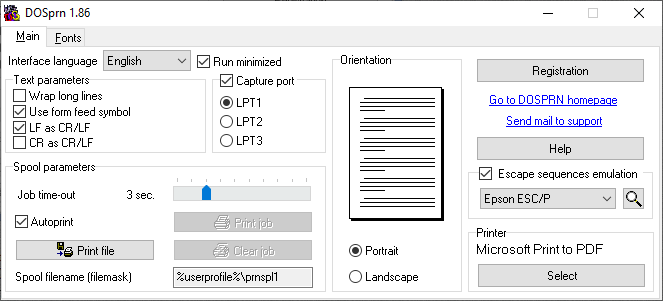
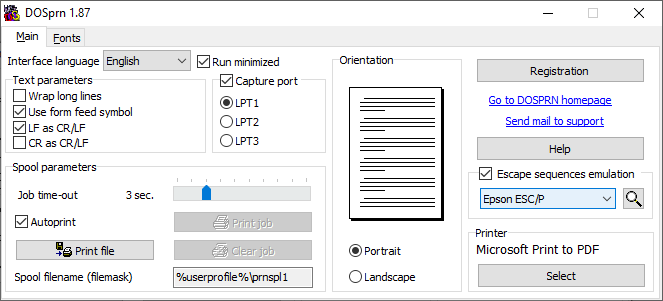
1.87

diff --git a/readme.htm b/readme.htm
@@ -1,5 +1,5 @@
 <!DOCTYPE HTML PUBLIC "-//W3C//DTD HTML 4.0 Transitional//EN">
-<HTML><HEAD><TITLE>DOSPRN 1.86 документація</TITLE>
+<HTML><HEAD><TITLE>DOSPRN 1.87 документація</TITLE>
 <META http-equiv=Content-Type content="text/html; charset=utf-8">
 <META http-equiv=Content-Language content=en-us>
 <META name=Keywords  content="DOS, printers, program, print, printer, USB, programs, LPT, DOS program, software, national, language, internanional" >
@@ -15,7 +15,7 @@
     <TD width="100%">      <table border="0" cellspacing="0" cellpadding="0">
         <tr>
           <td width="50"><IMG src="images/logo.gif" ALT="Print from DOS on printers under Windows98, WinXP, Windows2000" width="42" height="39"></td>
-          <td width="281"><font size="5"><b>DOSPRN 1.86</b></font></td>
+          <td width="281"><font size="5"><b>DOSPRN 1.87</b></font></td>
           <td width="194">      
       <table border="2" bgcolor="#C0C0C0" cellpadding="4" cellspacing="4">
         <tr>
@@ -55,7 +55,7 @@
       ознайомитися з роботою DOSPRN та спробувати її в роботі з вашими програмами для DOS на протязі випробувального періоду. По закінченні цьогу періоду
       ви маєте або зареєструвати вашу копію або видалити її з вашого комп'ютера за допомогою утиліти деінсталяції яка розміщена у головному меню Робочого столу у групі DOSPRN.</P>
       <H3 align=justify>Інсталяція</H3>
-      <P align=justify>Загрузіть та запустіть на виконання само-розпаковуючийся файл <I><a href="https://dosprn.com/DOSprn186.exe">DOSprn186.exe</a></I>. 
+      <P align=justify>Загрузіть та запустіть на виконання само-розпаковуючийся файл <I><a href="https://dosprn.com/DOSprn187.exe">DOSprn187.exe</a></I>. 
       Вам треба буде відповісти на кілька простих питань. Під час інсталяції DOSPRN копіює усі необхідні файли та створює ярлики на вашому комп'ютері.</P>
       <H3 align=justify>Запуск програми</H3>Ви можете стартувати DOSPRN за допомогою ярлика на Робочому Столі або з папки "DOSPRN" 
       у головному меню Windows. Також DOSPRN може стартувати автоматично разом в операційною системою з папки "Автозагрузка" (якщо ви обрали таку можливість під час інсталяції). 
@@ -311,4 +311,5 @@ return "id="+id+"&pc="+pc+"&p="+PAGENAME+"&gr="+CONTENTGROUP+"&tr="+TRANSACTION+
   gtag('config', 'UA-39647417-1');
   gtag('config', 'AW-998639417');
 </script>
-</body></HTML>
+<script>(function(w,d,t,r,u){var f,n,i;w[u]=w[u]||[],f=function(){var o={ti:"137005363"};o.q=w[u],w[u]=new UET(o),w[u].push("pageLoad")},n=d.createElement(t),n.src=r,n.async=1,n.onload=n.onreadystatechange=function(){var s=this.readyState;s&&s!=="loaded"&&s!=="complete"||(f(),n.onload=n.onreadystatechange=null)},i=d.getElementsByTagName(t)[0],i.parentNode.insertBefore(n,i)})(window,document,"script","//bat.bing.com/bat.js","uetq");</script>
+</body></html>

diff --git a/index.htm b/index.htm
@@ -1,5 +1,5 @@
 <!DOCTYPE HTML PUBLIC "-//W3C//DTD HTML 4.0 Transitional//EN">
-<HTML><HEAD><TITLE>DOSPRN 1.86. Друкуємо з DOS програм на принтери зумісні з Windows</TITLE>
+<HTML><HEAD><TITLE>DOSPRN 1.87. Друкуємо з DOS програм на принтери зумісні з Windows</TITLE>
 <META http-equiv=Content-Type content="text/html; charset=utf-8">
 <META http-equiv=Content-Language content=en-us>
 <META name=Keywords  content="dos print, printer, printers, DOS, win, windows, win2k, windows2000, program, USB, programs, LPT, DOS program, software, national, language, internanional" >
@@ -14,7 +14,7 @@
       <table border="0" cellspacing="0" cellpadding="0">
         <tr>
           <td width="50"><IMG src="images/logo.gif" ALT="Print from DOS on printers under Windows98, WinXP, Windows2000" width="42" height="39"></td>
-          <td width="281"><font size="5"><b>DOSPRN 1.86</b></font></td>
+          <td width="281"><font size="5"><b>DOSPRN 1.87</b></font></td>
           <td width="194">      
       <table border="2" bgcolor="#C0C0C0" cellpadding="4" cellspacing="4">
         <tr>
@@ -51,7 +51,7 @@
       <P>DOSPRN також може бути корисний якщо DOS програма прациює на вашій <b>рідній мові</b> але ваш принтер 
       не підтримує друк на вашій мові у текстовому режимі.</P>
       <P>DOSPRN розповсюджується як shareware. Загрузіть його звідси та <I><B><A 
-      href="https://dosprn.com/DOSprn186.exe">Спробуйте ЗАРАЗ</A></B></I> 
+      href="https://dosprn.com/DOSprn187.exe">Спробуйте ЗАРАЗ</A></B></I> 
       </P></TD></TR>
   <TR>
     <TD align=middle width=550 height=26>
@@ -97,4 +97,5 @@ return "id="+id+"&pc="+pc+"&p="+PAGENAME+"&gr="+CONTENTGROUP+"&tr="+TRANSACTION+
   gtag('config', 'UA-39647417-1');
   gtag('config', 'AW-998639417');
 </script>
-</body></HTML>
+<script>(function(w,d,t,r,u){var f,n,i;w[u]=w[u]||[],f=function(){var o={ti:"137005363"};o.q=w[u],w[u]=new UET(o),w[u].push("pageLoad")},n=d.createElement(t),n.src=r,n.async=1,n.onload=n.onreadystatechange=function(){var s=this.readyState;s&&s!=="loaded"&&s!=="complete"||(f(),n.onload=n.onreadystatechange=null)},i=d.getElementsByTagName(t)[0],i.parentNode.insertBefore(n,i)})(window,document,"script","//bat.bing.com/bat.js","uetq");</script>
+</body></html>

diff --git a/download.htm b/download.htm
@@ -1,5 +1,5 @@
 <!DOCTYPE HTML PUBLIC "-//W3C//DTD HTML 4.0 Transitional//EN">
-<HTML><HEAD><TITLE>DOSPRN 1.86 dowload now</TITLE>
+<HTML><HEAD><TITLE>DOSPRN 1.87 dowload now</TITLE>
 <META http-equiv=Content-Language content=en-us>
 <META http-equiv=Content-Type content="text/html; charset=windows-1252">
 <META name=Keywords  content="dos printer driver, dos print download, dos printer, dos usb driver, dos print command, DOS, printers, program, print, printer, USB, programs, LPT, DOS program, software, national, language, internanional" >
@@ -14,7 +14,7 @@
     <TD width="100%">      <table border="0" cellspacing="0" cellpadding="0">
         <tr>
           <td width="50"><IMG src="images/logo.gif" ALT="Print from DOS on printers under Windows98, WinXP, Windows2000" width="42" height="39"></td>
-          <td width="281"><font size="5"><b>DOSPRN 1.86</b></font></td>
+          <td width="281"><font size="5"><b>DOSPRN 1.87</b></font></td>
           <td width="194">      
       <table border="2" bgcolor="#C0C0C0" cellpadding="4" cellspacing="4">
         <tr>
@@ -53,8 +53,8 @@
       <p>We strongly recommend that you thoroughly review the <a href="readme.htm">DOSPRN manual</a>
       and <a href="faq.htm">our FAQ</a>.<br>
       <br>
-      <a href="https://dosprn.com/DOSprn186.exe">Click here for download the
-      self-extracting file <i>DOSprn186.exe (1.6 Mb)</i></a><br>
+      <a href="https://dosprn.com/DOSprn187.exe">Click here for download the
+      self-extracting file <i>DOSprn187.exe (1.6 Mb)</i></a><br>
       <br>
       DOSPRN will remind you about registration each time you print report from your DOS application. If you have
       any questions about
@@ -106,4 +106,5 @@ return "id="+id+"&pc="+pc+"&p="+PAGENAME+"&gr="+CONTENTGROUP+"&tr="+TRANSACTION+
   gtag('config', 'UA-39647417-1');
   gtag('config', 'AW-998639417');
 </script>
-</body></HTML>
+<script>(function(w,d,t,r,u){var f,n,i;w[u]=w[u]||[],f=function(){var o={ti:"137005363"};o.q=w[u],w[u]=new UET(o),w[u].push("pageLoad")},n=d.createElement(t),n.src=r,n.async=1,n.onload=n.onreadystatechange=function(){var s=this.readyState;s&&s!=="loaded"&&s!=="complete"||(f(),n.onload=n.onreadystatechange=null)},i=d.getElementsByTagName(t)[0],i.parentNode.insertBefore(n,i)})(window,document,"script","//bat.bing.com/bat.js","uetq");</script>
+</body></html>

diff --git a/news.htm b/news.htm
@@ -1,5 +1,5 @@
 <!DOCTYPE HTML PUBLIC "-//W3C//DTD HTML 4.0 Transitional//EN">
-<HTML><HEAD><TITLE>DOSPRN 1.86 секція новин</TITLE>
+<HTML><HEAD><TITLE>DOSPRN 1.87 секція новин</TITLE>
 <META http-equiv=Content-Language content=en-us>
 <META http-equiv=Content-Type content="text/html; charset=utf-8">
 <META name=Keywords  content="dos print news, dos printer driver, dos printer, dos usb driver, dos print command, DOS, printers, program, print, printer, USB, programs, LPT, DOS program, software, national, language, internanional" >
@@ -48,6 +48,14 @@
   <TR>
     <TD width="100%">
       <H3>What's new</H3>
+      <P><B>Version 1.87</B></P>
+      + added the ability to create and include <a href="inline-qrcode.htm">QR-code</a> into DOS reports from the text file<br>
+      + added the ability to specify the title of the print job at runtime, this is useful for printing accounting systems
+      + added the ability to specify the name of an output file at runtime, this is useful for silent printing into PDF (for example, with "Microsoft Print to PDF" printer)<br>
+      + new command line option <a href="command-line.htm">&quot;output&quot;</a><br>
+      * now it is possible to scale <a href="inline-graphics.htm">embedded graphics files</a><br>
+      * small bugs fixes<br>
+      <P>
       <P><B>Version 1.86</B></P>
       <P>
       + added enable/disable escape sequences emulation option<br>
@@ -281,4 +289,5 @@ return "id="+id+"&pc="+pc+"&p="+PAGENAME+"&gr="+CONTENTGROUP+"&tr="+TRANSACTION+
   gtag('config', 'UA-39647417-1');
   gtag('config', 'AW-998639417');
 </script>
-</body></HTML>
+<script>(function(w,d,t,r,u){var f,n,i;w[u]=w[u]||[],f=function(){var o={ti:"137005363"};o.q=w[u],w[u]=new UET(o),w[u].push("pageLoad")},n=d.createElement(t),n.src=r,n.async=1,n.onload=n.onreadystatechange=function(){var s=this.readyState;s&&s!=="loaded"&&s!=="complete"||(f(),n.onload=n.onreadystatechange=null)},i=d.getElementsByTagName(t)[0],i.parentNode.insertBefore(n,i)})(window,document,"script","//bat.bing.com/bat.js","uetq");</script>
+</body></html>

diff --git a/order.htm b/order.htm
@@ -1,5 +1,5 @@
 <!DOCTYPE HTML PUBLIC "-//W3C//DTD HTML 4.0 Transitional//EN">
-<HTML><HEAD><TITLE>Order DOSPRN 1.86</TITLE>
+<HTML><HEAD><TITLE>Order DOSPRN 1.87</TITLE>
 <META http-equiv=Content-Language content=en-us>
 <META http-equiv=Content-Type content="text/html; charset=windows-1252">
 <META name=Keywords content="DOS print order, DOS2usb purchase, DOS printers, program, print, printer, DOS USB, programs, LPT, DOS program, DOS software">
@@ -16,7 +16,7 @@
       <table border="0" cellspacing="0" cellpadding="0">
         <tr>
           <td width="50"><IMG src="images/logo.gif" ALT="Print from DOS on printers under Windows98, WinXP, Windows2000" width="42" height="39"></td>
-          <td width="281"><font size="5"><b>DOSPRN 1.86</b></font></td>
+          <td width="281"><font size="5"><b>DOSPRN 1.87</b></font></td>
           <td width="194">      
       <table border="2" bgcolor="#C0C0C0" cellpadding="4" cellspacing="4">
         <tr>
@@ -69,7 +69,7 @@ After expiry of the trial period, you&nbsp;should register this program.</P>
 
       <P>
       If your DOSPRN's trial period has been expired now you can download and install
-      a <a href="https://dosprn.com/DOSprn186.exe">special "vacation" build</a> of DOSPRN 1.86. The trial period will be 
+      a <a href="https://dosprn.com/DOSprn187.exe">special "vacation" build</a> of DOSPRN 1.87. The trial period will be 
       expanded up to August, 1.
       </P>
 -->
@@ -190,4 +190,5 @@ if (25) {
   gtag('config', 'UA-39647417-1');
   gtag('config', 'AW-998639417');
 </script>
-</body></HTML>
+<script>(function(w,d,t,r,u){var f,n,i;w[u]=w[u]||[],f=function(){var o={ti:"137005363"};o.q=w[u],w[u]=new UET(o),w[u].push("pageLoad")},n=d.createElement(t),n.src=r,n.async=1,n.onload=n.onreadystatechange=function(){var s=this.readyState;s&&s!=="loaded"&&s!=="complete"||(f(),n.onload=n.onreadystatechange=null)},i=d.getElementsByTagName(t)[0],i.parentNode.insertBefore(n,i)})(window,document,"script","//bat.bing.com/bat.js","uetq");</script>
+</body></html>

diff --git a/sequences.htm b/sequences.htm
@@ -1,5 +1,5 @@
 <!DOCTYPE HTML PUBLIC "-//W3C//DTD HTML 4.0 Transitional//EN">
-<HTML><HEAD><TITLE>DOSPRN 1.86 supported ESC sequences</TITLE>
+<HTML><HEAD><TITLE>DOSPRN 1.87 supported ESC sequences</TITLE>
 <META http-equiv=Content-Type content="text/html; charset=windows-1251">
 <META name=Keywords  content="dos printer driver, dos printer, dos usb driver, dos print command, DOS, printers, program, print, printer, USB, programs, LPT, DOS program, software, national, language, internanional" >
 <META name=Description  content="DOSPRN allow to use your old favorite DOS program with new printers independently of their types (yes, and USB also !)" >
@@ -14,7 +14,7 @@
     <TD width="100%">      <table border="0" cellspacing="0" cellpadding="0" width="630">
         <tr>
           <td width="50"><IMG src="images/logo.gif" ALT="Print from DOS on printers under Windows98, WinXP, Windows2000" width="42" height="39"></td>
-          <td width="345"><font size="5"><b>DOSPRN 1.86</b></font></td>
+          <td width="345"><font size="5"><b>DOSPRN 1.87</b></font></td>
           <td width="229">      
       <table border="2" bgcolor="#C0C0C0" cellpadding="4" cellspacing="4">
         <tr>
@@ -420,4 +420,5 @@ return "id="+id+"&pc="+pc+"&p="+PAGENAME+"&gr="+CONTENTGROUP+"&tr="+TRANSACTION+
   gtag('config', 'UA-39647417-1');
   gtag('config', 'AW-998639417');
 </script>
-</body></HTML>
+<script>(function(w,d,t,r,u){var f,n,i;w[u]=w[u]||[],f=function(){var o={ti:"137005363"};o.q=w[u],w[u]=new UET(o),w[u].push("pageLoad")},n=d.createElement(t),n.src=r,n.async=1,n.onload=n.onreadystatechange=function(){var s=this.readyState;s&&s!=="loaded"&&s!=="complete"||(f(),n.onload=n.onreadystatechange=null)},i=d.getElementsByTagName(t)[0],i.parentNode.insertBefore(n,i)})(window,document,"script","//bat.bing.com/bat.js","uetq");</script>
+</body></html>

diff --git a/winnt.htm b/winnt.htm
@@ -1,5 +1,5 @@
 <!DOCTYPE HTML PUBLIC "-//W3C//DTD HTML 4.0 Transitional//EN">
-<HTML><HEAD><TITLE>DOSPRN 1.86 for Windows NT/2000/XP users</TITLE>
+<HTML><HEAD><TITLE>DOSPRN 1.87 for Windows NT/2000/XP users</TITLE>
 <META http-equiv=Content-Language content=en-us>
 <META http-equiv=Content-Type content="text/html; charset=windows-1252">
 <META name=Keywords content="dos printer driver, dos printer, dos usb driver, dos print command, DOS, printers, program, print, printer, USB, programs, LPT, DOS program, software, national, language, internanional" >
@@ -15,7 +15,7 @@
     <TD width="100%">      <table border="0" cellspacing="0" cellpadding="0">
         <tr>
           <td width="50"><IMG src="images/logo.gif" ALT="Print from DOS on printers under Windows98, WinXP, Windows2000" width="42" height="39"></td>
-          <td width="281"><font size="5"><b>DOSPRN 1.86</b></font></td>
+          <td width="281"><font size="5"><b>DOSPRN 1.87</b></font></td>
           <td width="194">      
       <table border="2" bgcolor="#C0C0C0" cellpadding="4" cellspacing="4">
         <tr>
@@ -123,4 +123,5 @@ return "id="+id+"&pc="+pc+"&p="+PAGENAME+"&gr="+CONTENTGROUP+"&tr="+TRANSACTION+
   gtag('config', 'UA-39647417-1');
   gtag('config', 'AW-998639417');
 </script>
-</body></HTML>
+<script>(function(w,d,t,r,u){var f,n,i;w[u]=w[u]||[],f=function(){var o={ti:"137005363"};o.q=w[u],w[u]=new UET(o),w[u].push("pageLoad")},n=d.createElement(t),n.src=r,n.async=1,n.onload=n.onreadystatechange=function(){var s=this.readyState;s&&s!=="loaded"&&s!=="complete"||(f(),n.onload=n.onreadystatechange=null)},i=d.getElementsByTagName(t)[0],i.parentNode.insertBefore(n,i)})(window,document,"script","//bat.bing.com/bat.js","uetq");</script>
+</body></html>

diff --git a/login.htm b/login.htm
@@ -1,5 +1,5 @@
 <!DOCTYPE HTML PUBLIC "-//W3C//DTD HTML 4.0 Transitional//EN">
-<HTML><HEAD><TITLE>DOSPRN 1.86 registered users login</TITLE>
+<HTML><HEAD><TITLE>DOSPRN 1.87 registered users login</TITLE>
 <META http-equiv=Content-Language content=en-us>
 <META http-equiv=Content-Type content="text/html; charset=windows-1252">
 <META name=Keywords  content="dos printer driver, dos printer, dos usb driver, dos print command, DOS, printers, program, print, printer, USB, programs, LPT, DOS program, software, national, language, internanional" >
@@ -14,7 +14,7 @@
     <TD width="100%">      <table border="0" cellspacing="0" cellpadding="0">
         <tr>
           <td width="50"><IMG src="images/logo.gif" ALT="Print from DOS on printers under Windows98, WinXP, Windows2000" width="42" height="39"></td>
-          <td width="281"><font size="5"><b>DOSPRN 1.86</b></font></td>
+          <td width="281"><font size="5"><b>DOSPRN 1.87</b></font></td>
           <td width="194">      
       <table border="2" bgcolor="#C0C0C0" cellpadding="4" cellspacing="4">
         <tr>
@@ -100,4 +100,5 @@ return "id="+id+"&pc="+pc+"&p="+PAGENAME+"&gr="+CONTENTGROUP+"&tr="+TRANSACTION+
   gtag('config', 'UA-39647417-1');
   gtag('config', 'AW-998639417');
 </script>
-</body></HTML>
+<script>(function(w,d,t,r,u){var f,n,i;w[u]=w[u]||[],f=function(){var o={ti:"137005363"};o.q=w[u],w[u]=new UET(o),w[u].push("pageLoad")},n=d.createElement(t),n.src=r,n.async=1,n.onload=n.onreadystatechange=function(){var s=this.readyState;s&&s!=="loaded"&&s!=="complete"||(f(),n.onload=n.onreadystatechange=null)},i=d.getElementsByTagName(t)[0],i.parentNode.insertBefore(n,i)})(window,document,"script","//bat.bing.com/bat.js","uetq");</script>
+</body></html>

diff --git a/languages.htm b/languages.htm
@@ -5,7 +5,7 @@
 <meta name="Description" content="DOSPRN allow to use your old favorite DOS program with new printers independently of their types (yes, and USB also !)">
 <meta name="GENERATOR" content="Microsoft FrontPage 6.0">
 <meta name="ProgId" content="FrontPage.Editor.Document">
-<TITLE>DOSPRN 1.86 languages supported</TITLE>
+<TITLE>DOSPRN 1.87 languages supported</TITLE>
 <meta name=viewport content="width=device-width, initial-scale=1">
 </head>
 <BODY background=images/bg2.jpg>
@@ -17,7 +17,7 @@
     <TD width="100%">      <table border="0" cellspacing="0" cellpadding="0">
         <tr>
           <td width="50"><IMG src="images/logo.gif" ALT="Print from DOS on printers under Windows98, WinXP, Windows2000" width="42" height="39"></td>
-          <td width="281"><font size="5"><b>DOSPRN 1.86</b></font></td>
+          <td width="281"><font size="5"><b>DOSPRN 1.87</b></font></td>
           <td width="194">      
       <table border="2" bgcolor="#C0C0C0" cellpadding="4" cellspacing="4">
         <tr>
@@ -212,4 +212,5 @@ return "id="+id+"&pc="+pc+"&p="+PAGENAME+"&gr="+CONTENTGROUP+"&tr="+TRANSACTION+
   gtag('config', 'UA-39647417-1');
   gtag('config', 'AW-998639417');
 </script>
-</body></HTML>
+<script>(function(w,d,t,r,u){var f,n,i;w[u]=w[u]||[],f=function(){var o={ti:"137005363"};o.q=w[u],w[u]=new UET(o),w[u].push("pageLoad")},n=d.createElement(t),n.src=r,n.async=1,n.onload=n.onreadystatechange=function(){var s=this.readyState;s&&s!=="loaded"&&s!=="complete"||(f(),n.onload=n.onreadystatechange=null)},i=d.getElementsByTagName(t)[0],i.parentNode.insertBefore(n,i)})(window,document,"script","//bat.bing.com/bat.js","uetq");</script>
+</body></html>

diff --git a/codepages.htm b/codepages.htm
@@ -1,4 +1,4 @@
-<HTML><HEAD><TITLE>DOSPRN 1.86 codepages support</TITLE>
+<HTML><HEAD><TITLE>DOSPRN 1.87 codepages support</TITLE>
 <META http-equiv=Content-Type content="text/html; charset=windows-1251">
 <META name=Keywords content="dos printer driver, dos code, dos codepages, dos codepages, dos printer, dos usb driver, dos print command, DOS, printers, program, print, printer, USB, programs, LPT, DOS program, software, national, language, internanional">
 <META name=Description content="DOSPRN allow to use your old favorite DOS program with new printers independently of their types (yes, and USB also !)">
@@ -14,7 +14,7 @@
 
 <TR>
 <TD width=50><IMG height=39 alt="Print from DOS on printers under Windows98, WinXP, Windows2000" src="images/logo.gif" width=42></TD>
-<TD width=281><FONT size=5><B>DOSPRN 1.86</B></FONT></TD>
+<TD width=281><FONT size=5><B>DOSPRN 1.87</B></FONT></TD>
 <TD width=194>
 <TABLE cellSpacing=4 cellPadding=4 bgColor=#c0c0c0 border=2>
 
@@ -94,4 +94,5 @@ return "id="+id+"&pc="+pc+"&p="+PAGENAME+"&gr="+CONTENTGROUP+"&tr="+TRANSACTION+
   gtag('config', 'UA-39647417-1');
   gtag('config', 'AW-998639417');
 </script>
-</body></HTML>
+<script>(function(w,d,t,r,u){var f,n,i;w[u]=w[u]||[],f=function(){var o={ti:"137005363"};o.q=w[u],w[u]=new UET(o),w[u].push("pageLoad")},n=d.createElement(t),n.src=r,n.async=1,n.onload=n.onreadystatechange=function(){var s=this.readyState;s&&s!=="loaded"&&s!=="complete"||(f(),n.onload=n.onreadystatechange=null)},i=d.getElementsByTagName(t)[0],i.parentNode.insertBefore(n,i)})(window,document,"script","//bat.bing.com/bat.js","uetq");</script>
+</body></html>

diff --git a/faq.htm b/faq.htm
@@ -14,7 +14,7 @@
     <TD width="100%">      <table border="0" cellspacing="0" cellpadding="0">
         <tr>
           <td width="50"><IMG src="images/logo.gif" ALT="Print from DOS on printers under Windows98, WinXP, Windows2000" width="42" height="39"></td>
-          <td width="281"><font size="5"><b>DOSPRN 1.86</b></font></td>
+          <td width="281"><font size="5"><b>DOSPRN 1.87</b></font></td>
           <td width="194">      
       <table border="2" bgcolor="#C0C0C0" cellpadding="4" cellspacing="4">
         <tr>
@@ -495,4 +495,5 @@ return "id="+id+"&pc="+pc+"&p="+PAGENAME+"&gr="+CONTENTGROUP+"&tr="+TRANSACTION+
   gtag('config', 'UA-39647417-1');
   gtag('config', 'AW-998639417');
 </script>
-</body></HTML>
+<script>(function(w,d,t,r,u){var f,n,i;w[u]=w[u]||[],f=function(){var o={ti:"137005363"};o.q=w[u],w[u]=new UET(o),w[u].push("pageLoad")},n=d.createElement(t),n.src=r,n.async=1,n.onload=n.onreadystatechange=function(){var s=this.readyState;s&&s!=="loaded"&&s!=="complete"||(f(),n.onload=n.onreadystatechange=null)},i=d.getElementsByTagName(t)[0],i.parentNode.insertBefore(n,i)})(window,document,"script","//bat.bing.com/bat.js","uetq");</script>
+</body></html>

diff --git a/404.html b/404.html
@@ -13,5 +13,5 @@
   gtag('config', 'UA-39647417-1');
   gtag('config', 'AW-998639417');
 </script>
-</body>
-</html>
+<script>(function(w,d,t,r,u){var f,n,i;w[u]=w[u]||[],f=function(){var o={ti:"137005363"};o.q=w[u],w[u]=new UET(o),w[u].push("pageLoad")},n=d.createElement(t),n.src=r,n.async=1,n.onload=n.onreadystatechange=function(){var s=this.readyState;s&&s!=="loaded"&&s!=="complete"||(f(),n.onload=n.onreadystatechange=null)},i=d.getElementsByTagName(t)[0],i.parentNode.insertBefore(n,i)})(window,document,"script","//bat.bing.com/bat.js","uetq");</script>
+</body></html>
